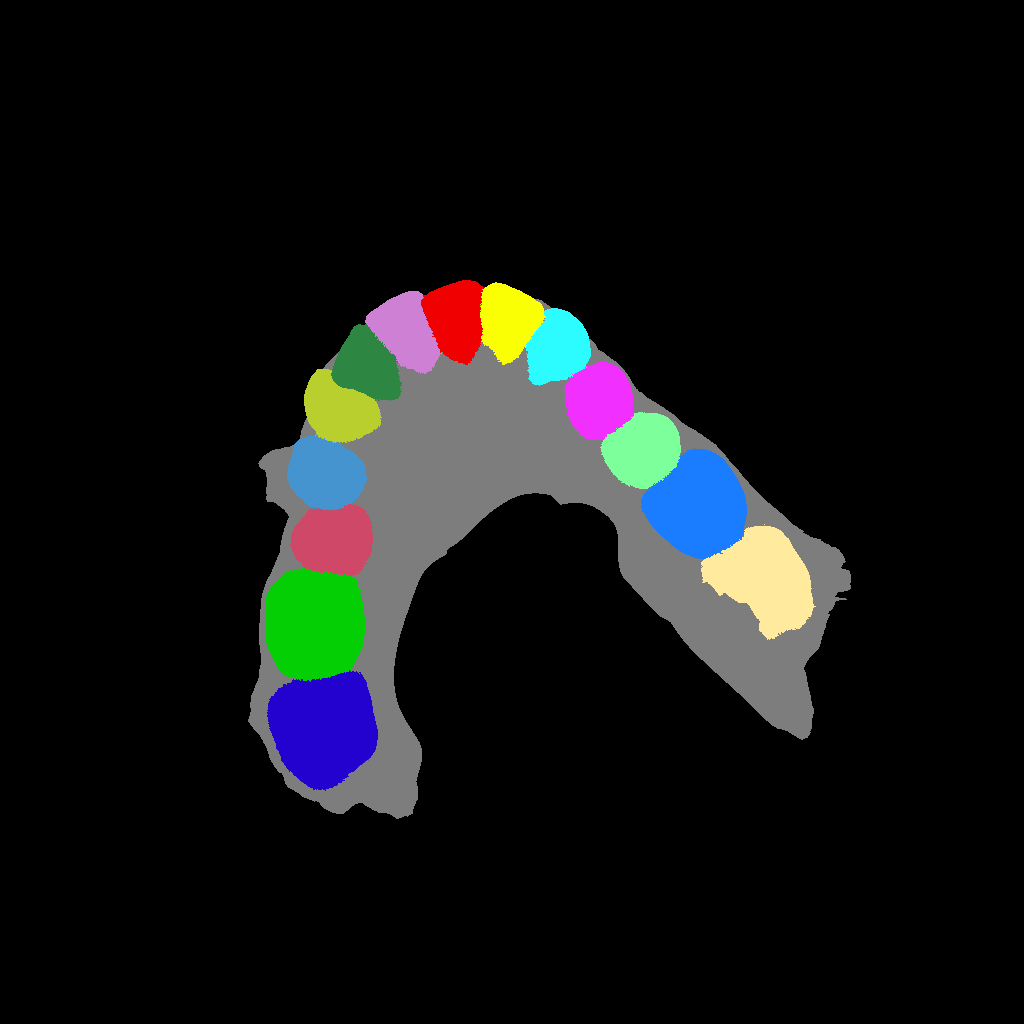
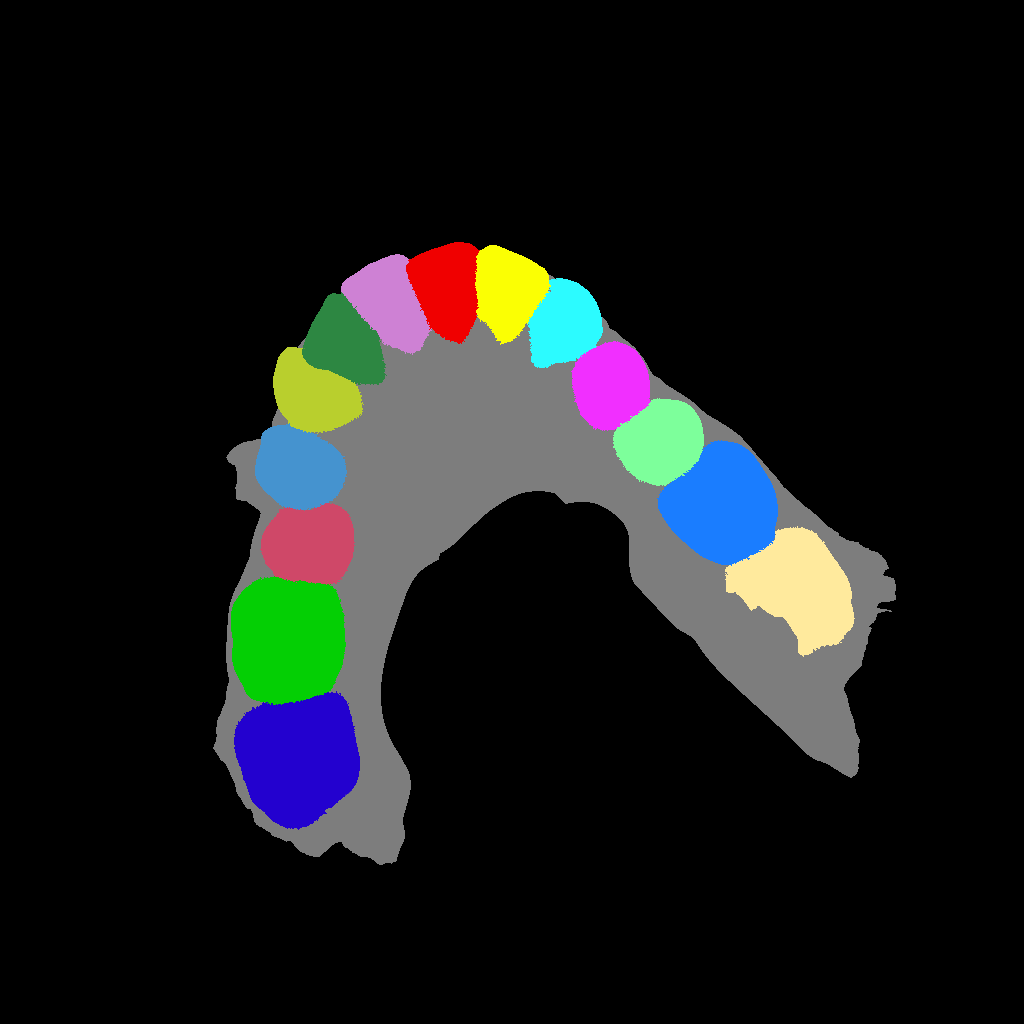
改成可以調整相機深度

Changed region(s): [[0.1875, 0.2188, 0.875, 0.8438], [0.6562, 0.625, 0.6875, 0.6562]]

diff --git a/render.py b/render.py
@@ -24,11 +24,69 @@ def m3dLookAt(eye, target, up):
     ])
 
 
-def render_top_view(ply_path, save_dir, rend_size=(1024, 1024)):
+def calculate_optimal_distance(vertices, camera_direction, yfov, target_fill_ratio=0.85):
+    """
+    計算最佳相機距離，使模型在影像中佔據指定比例
+    
+    Args:
+        vertices: 模型頂點 (N×3 numpy array)
+        camera_direction: 相機朝向（單位向量）
+        yfov: 垂直視場角（弧度）
+        target_fill_ratio: 目標填充比例（0.85 表示佔據 85% 影像）
+    
+    Returns:
+        optimal_distance: 最佳相機距離
+    """
+    center = np.mean(vertices, axis=0)
+    
+    # 構建相機座標系（假設相機朝 -Z 看，Y 軸朝上）
+    cam_z = -camera_direction / np.linalg.norm(camera_direction)
+    
+    # 選擇合適的 up 向量（避免與 cam_z 平行）
+    if abs(np.dot(cam_z, [0, 1, 0])) > 0.9:
+        up_temp = [1, 0, 0]
+    else:
+        up_temp = [0, 1, 0]
+    
+    cam_x = np.cross(up_temp, cam_z)
+    cam_x = cam_x / np.linalg.norm(cam_x)
+    cam_y = np.cross(cam_z, cam_x)
+    
+    # 將頂點轉換到相機座標系
+    vertices_centered = vertices - center
+    vertices_cam = np.stack([
+        np.dot(vertices_centered, cam_x),
+        np.dot(vertices_centered, cam_y),
+        np.dot(vertices_centered, cam_z)
+    ], axis=1)
+    
+    # 計算投影後的包圍盒
+    x_range = np.max(vertices_cam[:, 0]) - np.min(vertices_cam[:, 0])
+    y_range = np.max(vertices_cam[:, 1]) - np.min(vertices_cam[:, 1])
+    z_depth = np.max(vertices_cam[:, 2]) - np.min(vertices_cam[:, 2])
+    
+    # 根據視場角計算所需距離
+    # distance = (size / 2) / tan(fov / 2) / fill_ratio
+    max_size = max(x_range, y_range)
+    required_distance = (max_size / 2) / np.tan(yfov / 2) / target_fill_ratio
+    
+    # 加上模型深度的一半，確保前後都不被裁切
+    safe_distance = required_distance + z_depth / 2
+    
+    return safe_distance
+
+
+def render_top_view(ply_path, save_dir, rend_size=(1024, 1024), fill_ratio=0.85):
     """
     從單一 .ply 檔案渲染兩張俯視影像：
     1. 純打光影像（無顏色）
     2. 語義標籤影像（帶顏色）
+    
+    Args:
+        ply_path: .ply 檔案路徑
+        save_dir: 輸出目錄
+        rend_size: 渲染影像尺寸 (高, 寬)
+        fill_ratio: 模型填充比例 (0.0-1.0)，建議 0.85
     """
     base_name = os.path.basename(ply_path)[:-4]
     os.makedirs(save_dir, exist_ok=True)
@@ -41,17 +99,29 @@ def render_top_view(ply_path, save_dir, rend_size=(1024, 1024)):
     minCoord = np.min(vertices, axis=0)
     maxCoord = np.max(vertices, axis=0)
     meanCoord = np.mean(vertices, axis=0)
-    z_len = maxCoord[2] - minCoord[2]
-    radius = np.sqrt(np.sum((maxCoord - meanCoord) ** 2)) * 1.2
+    
+    # 使用新的最佳距離計算方法
+    yfov = np.pi / 2
+    camera_direction = np.array([0, 0, -1])  # 俯視朝下
+    optimal_distance = calculate_optimal_distance(
+        vertices, camera_direction, yfov, fill_ratio
+    )
+    
+    print(f"Model center: {meanCoord}")
+    print(f"Model bounds: {maxCoord - minCoord}")
+    print(f"Optimal camera distance: {optimal_distance:.2f} (fill ratio: {fill_ratio})")
 
     # 設定俯視相機位置（從上往下看）
-    camera_pos = meanCoord + np.asarray([0, 0, radius], dtype=float)
+    camera_pos = meanCoord + np.asarray([0, 0, optimal_distance], dtype=float)
     camera_pose = m3dLookAt(camera_pos, meanCoord, np.asarray([0, 1, 0], dtype=float))
 
     # 計算相機參數（與原始程式碼相同的格式）
     Rt = np.eye(4)
     Rt[:3, :3] = camera_pose[:3, :3].T
     Rt[:3, 3] = -np.dot(camera_pose[:3, :3].T, camera_pose[:3, 3])
+    
+    # 清理浮點數誤差
+    Rt[np.abs(Rt) < 1e-10] = 0
     
     f_y = (rend_size[0] / 2) / math.tan(np.pi / 2 / 2)
     f_x = f_y * 1.0
@@ -151,4 +221,9 @@ def render_top_view(ply_path, save_dir, rend_size=(1024, 1024)):
 if __name__ == '__main__':
     ply_path = r'ply\00OMSZGW_lower\00OMSZGW_lower.ply'
     save_dir = r'ply\00OMSZGW_lower'
-    render_top_view(ply_path, save_dir, rend_size=(1024, 1024))
+    
+    # 預設使用 85% 填充比例（推薦）
+    render_top_view(ply_path, save_dir, rend_size=(1024, 1024), fill_ratio=0.95)
+    
+    # 如果需要更緊湊，可以改為 0.90 或 0.95
+    # render_top_view(ply_path, save_dir, rend_size=(1024, 1024), fill_ratio=0.90)
